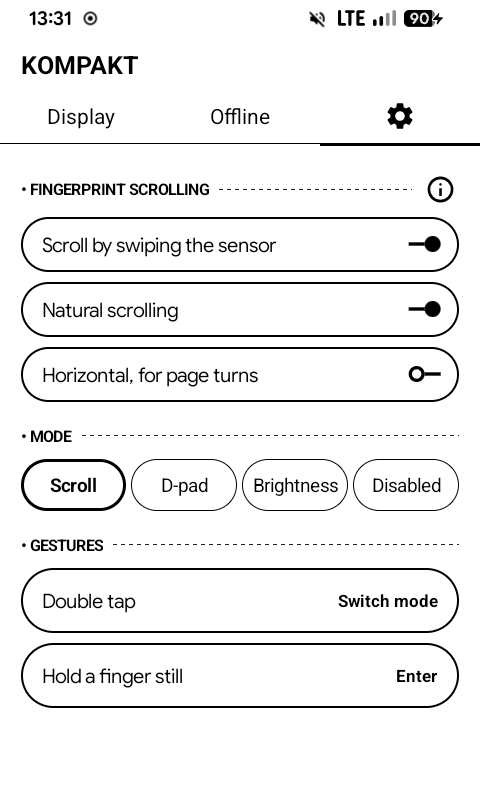
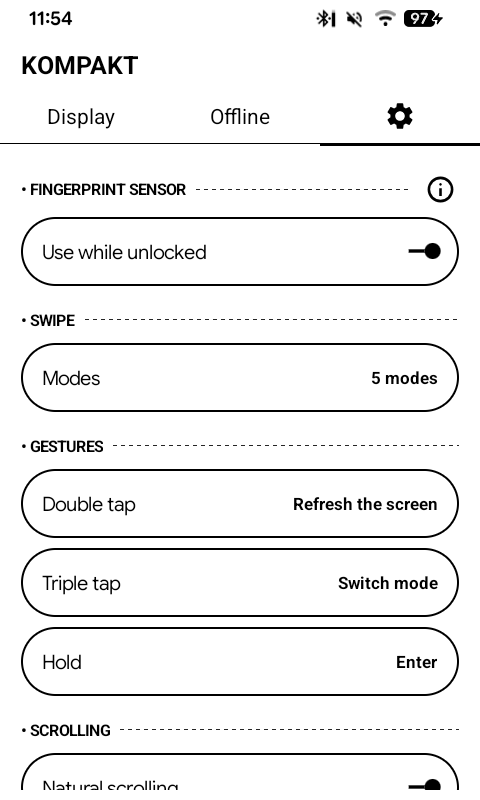
Docs: backup, factory reset and region check up front; Erase FRP page; announcement bar

diff --git a/src/css/custom.css b/src/css/custom.css
@@ -172,3 +172,47 @@
 .markdown details.alert > summary {
   font-weight: var(--ifm-font-weight-semibold);
 }
+
+/* Announcement bar above the navbar: the page background in both themes. */
+div[class*='announcementBar'] {
+  background-color: var(--ifm-background-color);
+  color: var(--ifm-font-color-base);
+}
+
+div[class*='announcementBar'] a {
+  color: var(--ifm-link-color);
+  font-weight: var(--ifm-font-weight-semibold);
+}
+
+/* Admonitions (:::note, :::warning...): the site's greys and ink, not Docusaurus's colours. */
+.theme-admonition.alert {
+  --ifm-alert-background-color: var(--ifm-background-surface-color);
+  --ifm-alert-background-color-highlight: rgba(0, 0, 0, 0.05);
+  --ifm-alert-foreground-color: var(--ifm-font-color-base);
+  --ifm-alert-border-color: var(--ifm-font-color-base);
+  box-shadow: none;
+}
+
+/* Infima's .alert sets the link colour to the text colour; put the site's back. */
+[data-theme='light'] .theme-admonition.alert {
+  --ifm-link-color: #0b57d0;
+  --ifm-link-hover-color: #0842a0;
+}
+
+[data-theme='dark'] .theme-admonition.alert {
+  --ifm-link-color: #ffdd00;
+  --ifm-link-hover-color: #ffe866;
+}
+
+.theme-admonition.alert a:not(.button) {
+  color: var(--ifm-link-color);
+  text-decoration: underline;
+}
+
+.theme-admonition.alert a:not(.button):hover {
+  color: var(--ifm-link-hover-color);
+}
+
+.theme-admonition.alert a.button {
+  text-decoration: none;
+}

diff --git a/docusaurus.config.ts b/docusaurus.config.ts
@@ -69,6 +69,12 @@ const config: Config = {
     colorMode: {
       respectPrefersColorScheme: true,
     },
+    announcementBar: {
+      id: 'release-1-1',
+      content:
+        '<b>KompaktOS 1.1</b>, Before you start installation read <a href="/prepare/requirements">Requirements</a> &amp; <a href="/prepare/mtkclient">Backup</a>',
+      isCloseable: false,
+    },
     navbar: {
       logo: {
         alt: 'KompaktOS',

diff --git a/sidebars.ts b/sidebars.ts
@@ -23,6 +23,7 @@ const sidebars: SidebarsConfig = {
         'install/post-install',
         'install/updates',
         'install/going-back',
+        'install/erase-frp',
         'install/troubleshooting',
       ],
     },
